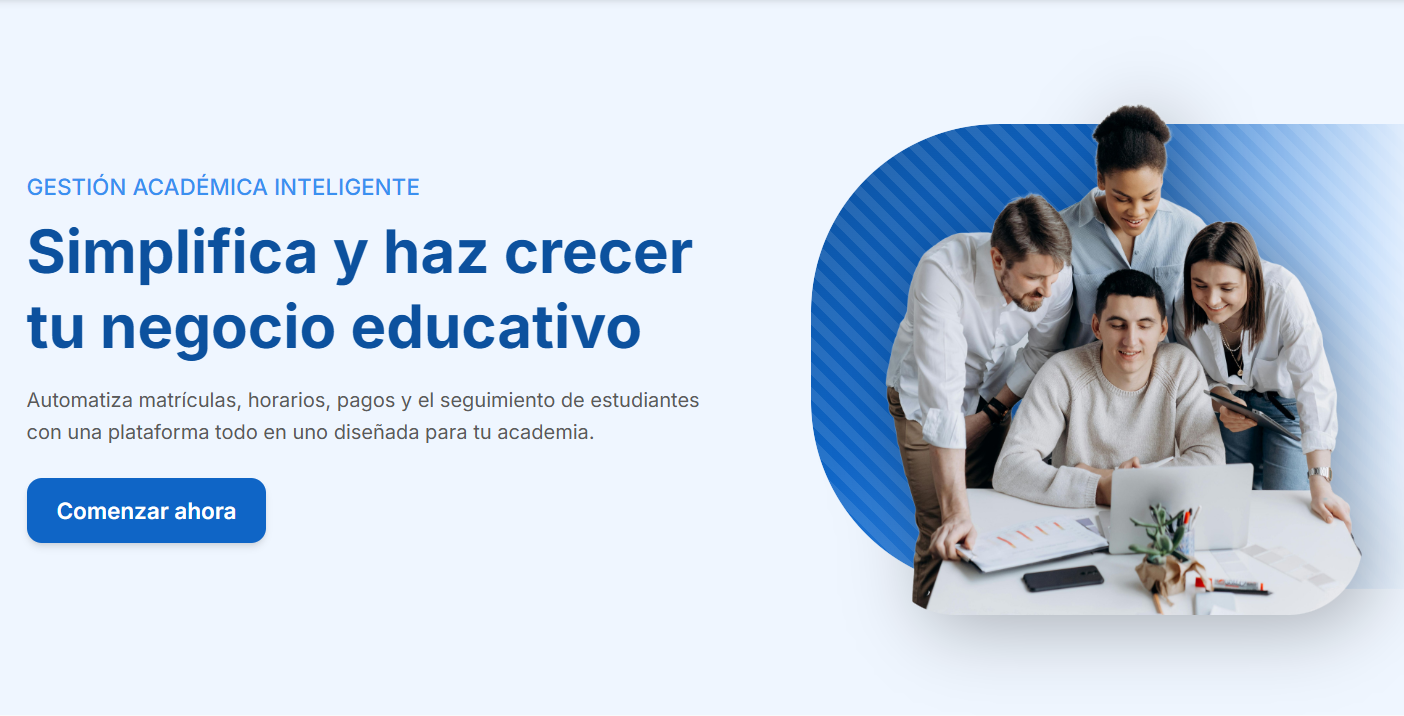
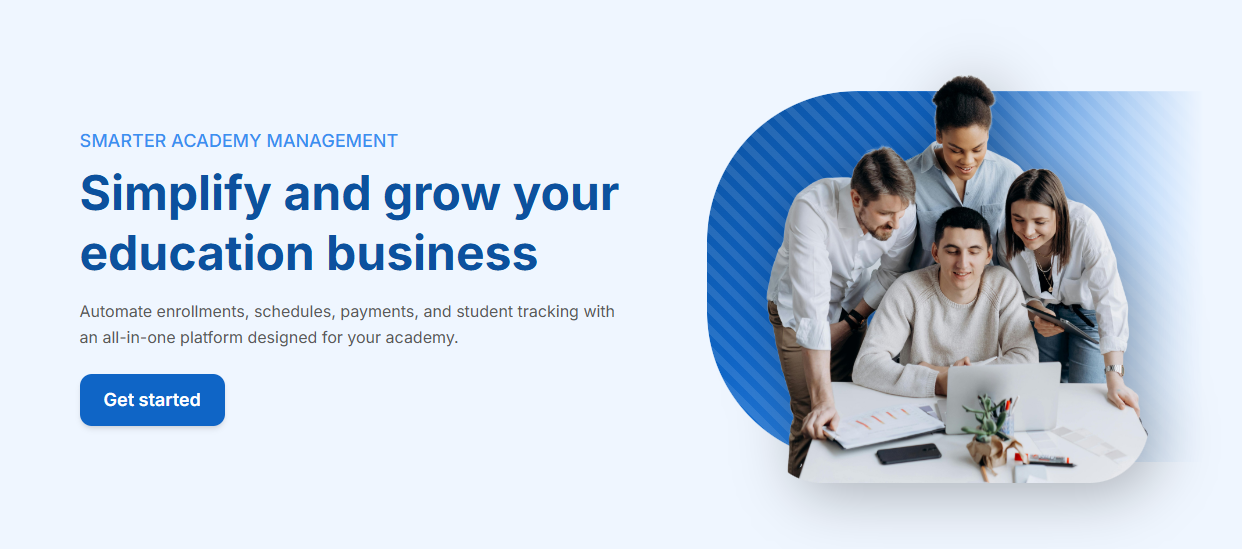
docs: add software deployment evidence for sprint review

Changed region(s): [[0.5507, 0.1239, 1.0, 0.867], [0.0, 0.3097, 0.5201, 0.8051], [0.0, 0.2477, 0.3366, 0.2787]]

diff --git a/README.md b/README.md
@@ -1140,6 +1140,34 @@ En el Sprint 1 alcanzamos el desarrollo parcial de la implementación y desplieg
 
 
 #### 5.2.1.7. Software Deployment Evidence for Sprint Review
+Para esta entrega del sprint 1, se desplego nuestro landing page parcialmente completo.
+
+1. **Hero Section**: En esta sección el usuario podrá visualizar una breve descripción de Demy con texto que invite a usar la pagina y pueda ingresar a registrarse
+   ![imagesExecutionEvidence](./assets/images/LandingPage/Hero_Section.png)
+2. **About the Product**: En esta sección se mostrarán las funcionalidades que tendrá Demy en cada recuadro de la pagina.
+   ![imagesExecutionEvidence](./assets/images/LandingPage/about_the_product.png)
+3. **Benefits**: En esta sección se describirán los beneficios que ofrece Demy frente a la competencia y como es mejor que usar herramientas antiguas como tablas de excel.
+   ![imagesExecutionEvidence](./assets/images/LandingPage/benefits.png)
+4. **Testimonials**: En esta sección se mostrarán el testimonio de 3 usuarios y su calificacion.
+   ![imagesExecutionEvidence](./assets/images/LandingPage/testimonials.png)
+5. **About Us**: En esta sección se verán los 5 integrantes que conforman Demy los nombres y quien es el team lider.
+   ![imagesExecutionEvidence](./assets/images/LandingPage/about-us.png)
+
+6. **Plans & Pricing**: En esta sección se mostrarán los 3 planes que ofrecemos como Demy, los beneficios de cada uno de estos y el precio que tendra.
+   ![imagesExecutionEvidence](./assets/images/LandingPage/plans&pricing.png)
+
+7. **Contact**: En esta sección el usuario podrá contactarse con los miembros de Demy rellenando sus datos y enviando un mensaje.
+   ![imagesExecutionEvidence](./assets/images/LandingPage/contact.png)
+
+8. **FAQs**: En esta sección se mostrarán las preguntas frecuentes sobre Demy y abrir una seccion con las respuestas a las preguntas.
+   ![imagesExecutionEvidence](./assets/images/LandingPage/faqs.png)
+9. **Footer**: En esta sección se mostrarán las secciones de la página y nuestras redes sociales.
+   ![imagesExecutionEvidence](./assets/images/LandingPage/footer.png)
+
+Nuestro github del Landing page
+![imagesExecutionEvidence](./assets/images/LandingPage/git_open_source.png)
+
+Enlace para acceder al landinng page: [Pagina](https://demy-academy.netlify.app/)
 
 
 #### 5.2.1.8. Team Collaboration Insights during Sprint
